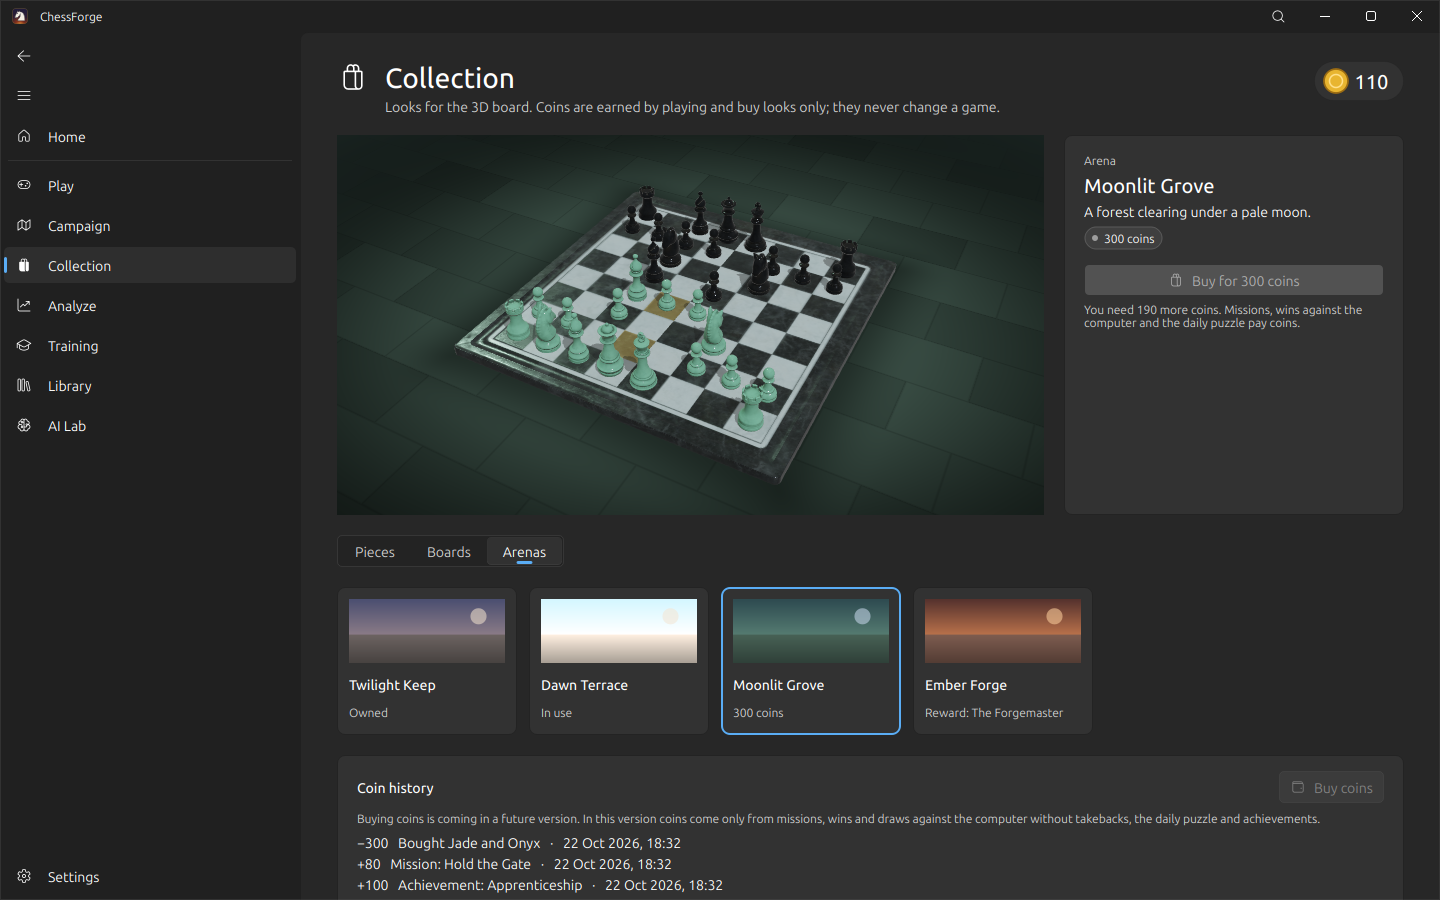
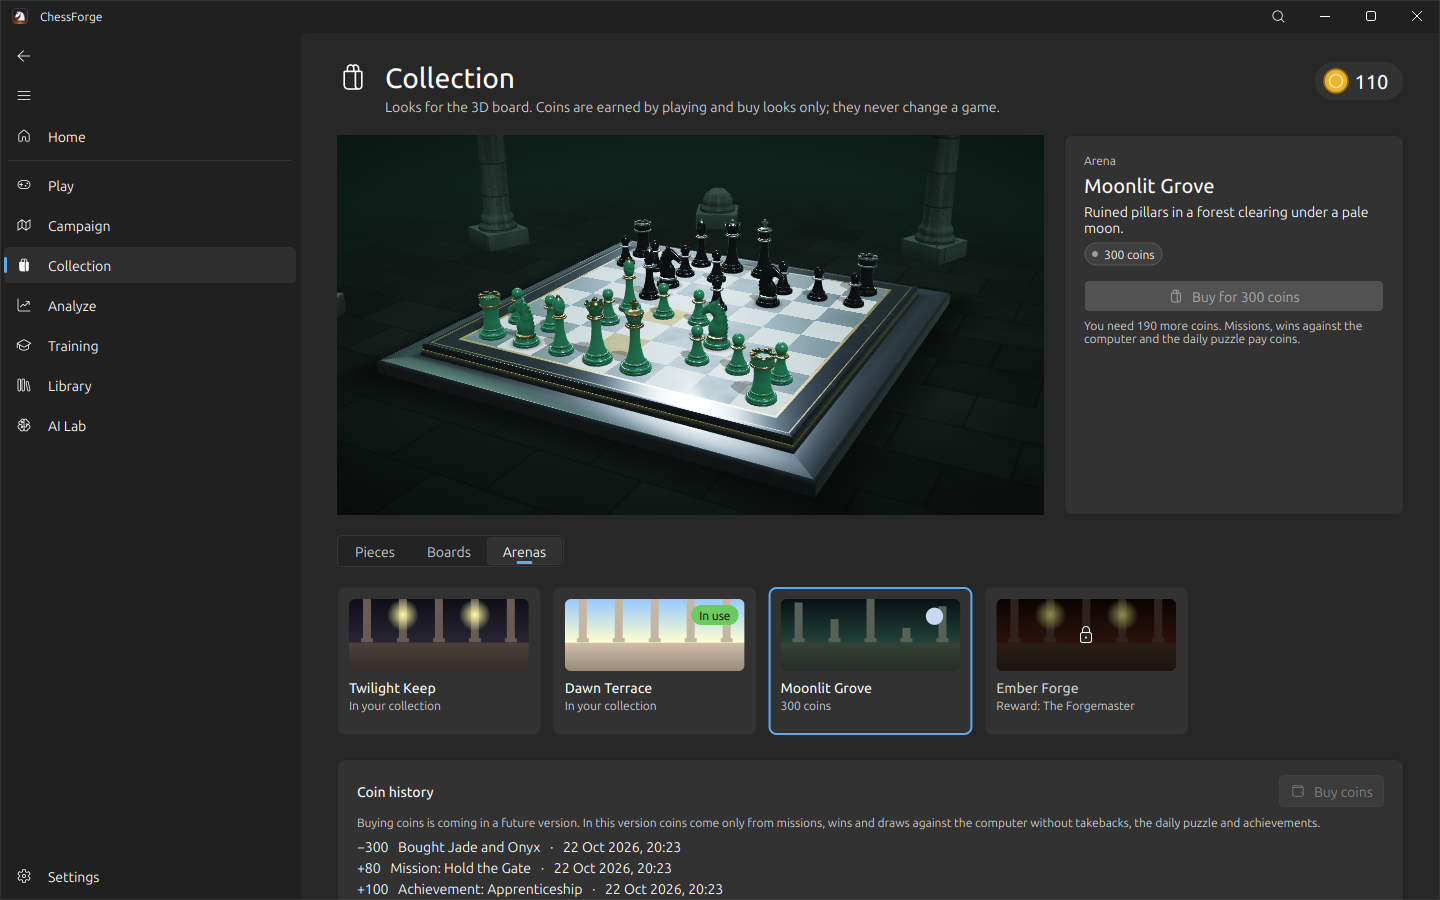
Show the redesigned 3D board: sculpted set, halls, close-ups and finishes
New studies of the 3D board from the app's renderer (the default view, both sides' pieces, close-ups, move highlights, a turned camera, the four arenas and five finishes), refreshed game screenshots, an availability note (no public download) and an updated feature overview.

diff --git a/README.md b/README.md
@@ -1,7 +1,7 @@
 # ChessForge
 
 **A 3D chess game and chess workstation for Windows and Linux.**
-- Play on a modelled board in an arena, or follow a twelve-mission campaign.
+- Play on a sculpted ivory-and-obsidian set in a torchlit royal hall, or follow a twelve-mission campaign.
 - Collect piece, board and arena looks with coins earned in play.
 - Analyse with Stockfish, train with puzzles and drills, keep a game library, and train your own neural network.
 
@@ -20,20 +20,20 @@ Built with [FluentQt](https://github.com/pntrungbk15/fluentqt-showcase) on PyQt5
 | At a glance | |
 |---|---|
 | **What** | An independent desktop application: a 3D chess game with a campaign and a cosmetic collection, plus analysis, training, a game database and a neural-network lab, all running locally. |
-| **3D** | A custom OpenGL 2.1 renderer: physically based shading, planar shadows, a procedural arena, and a camera you can orbit and zoom while picking stays exact. |
+| **3D** | A custom OpenGL 2.1 renderer and an original sculpted chess set (signed distance functions meshed and baked by a build script); physically based, fully procedural materials with no textures; planar and contact shadows; four halls; a camera you can orbit and zoom while picking stays exact. |
 | **Progression** | Twelve missions judged move by move; a coin ledger whose rows are keyed by the event they pay for, so nothing is paid twice; purchases in one transaction. Coins buy looks only, and there is no way to buy coins in this version. |
 | **Engine integration** | Stockfish over UCI in its own processes; live multi-line analysis; background game review with an evaluation graph, critical moments and accuracy. |
 | **AI Lab** | Datasets from your games or from Stockfish, a policy/value network trained with PyTorch in a separate process, MCTS self-play, checkpoint evaluation, and play against your own models. |
 | **Data** | A local SQLite library with background PGN import, search, filters, tags, collections and duplicate detection. |
-| **Packaging** | A standalone build compiled with Nuitka and verified by launching it; Stockfish is detected or downloaded, never bundled. |
+| **Packaging** | A standalone Windows build compiled with Nuitka and verified by launching it, packed into a per-user Inno Setup installer; Stockfish is detected or downloaded, never bundled. |
 
 ## Features
 
 | Area | What it does |
 |---|---|
-| **3D board** | On by default with hardware OpenGL: a CC0 chess set in an arena; drag outside the squares to turn it, wheel to zoom, C to reset; the camera never moves by itself. |
+| **3D board** | On by default with hardware OpenGL: glazed ivory with champagne gold against polished obsidian with antique gold, a veined marble board with a brass inlay on a dais, in a hall of pillars, arches, moonlit windows and torches. Drag outside the squares to turn it, wheel to zoom, C to reset; the camera never moves by itself. A detail setting drops the hall on older graphics. |
 | **Campaign** | Three chapters against named opponents, from a built-in sparring engine to Stockfish level 11; goals are win, do not lose, or hold out for a number of moves; rewards are paid once. |
-| **Collection** | Five piece finishes, five boards and four arenas, previewed live; coins come from missions, wins and draws against the computer, the daily puzzle and achievements. |
+| **Collection** | Five piece finishes, five boards and four arenas, previewed live on the 3D board and listed in a FluentQt Pro `CatalogView`; coins come from missions, wins and draws against the computer, the daily puzzle and achievements. |
 | **Play** | Against Stockfish (levels 0–20), the built-in sparring partner (no download), a friend, a model trained in the AI Lab, or engine against engine; clocks with increment, any FEN start, draws, takebacks, rematch. |
 | **Analysis** | Live multi-line analysis with the best move drawn as an arrow; **Review game** grades every move in the background and marks the critical moments. |
 | **Training** | 2,475 puzzles by theme and rating band, SM-2 spaced repetition of missed puzzles, 3,815 named opening lines to drill, endgame drills against Stockfish. |
@@ -43,6 +43,27 @@ Built with [FluentQt](https://github.com/pntrungbk15/fluentqt-showcase) on PyQt5
 | **Commands** | Ctrl+K opens a command palette for every frequent action. |
 | **Accessibility** | Full keyboard play, reduced motion, a high-contrast board, text scaling, light/dark/system theme. |
 
+## The 3D board
+
+![The sculpted set on a marble board with a brass inlay, on a dais in a torchlit hall](assets/chess-3d-arena.jpg)
+
+| | |
+|---|---|
+| ![The board at the default camera, mid-opening](assets/chess-3d-board.jpg) | ![White's pieces in front, Black's behind](assets/chess-3d-pieces-white.jpg) |
+| The default view in play: a 40° camera with the whole board, the frame and the hall beyond it. | All six piece types from White's side: the knight in profile, the bishop's cut, the queen's crown of pearls, the king's cross. |
+| ![The same pieces from Black's side](assets/chess-3d-pieces-black.jpg) | ![A selected knight with its legal moves and the last move highlighted](assets/chess-3d-highlights.jpg) |
+| The same line-up from Black's side: obsidian with antique gold. | A selected knight's legal moves, the last move and the selection stay legible on light and dark squares. |
+| ![The board after the player turned the camera](assets/chess-3d-rotated.jpg) | ![The Collection page previewing an arena on the live 3D board](assets/chess-collection.png) |
+| The camera after the player turned it: it stays wherever it is put. | The Collection previews a look on the live 3D board before it is bought. |
+
+![Close-ups of the knight, king, queen, bishop and rook in ivory and obsidian](assets/chess-3d-closeups.jpg)
+
+![The four arenas: Twilight Keep, Dawn Terrace, Moonlit Grove and Ember Forge](assets/chess-3d-arenas.jpg)
+
+![The five piece finishes: Ivory and Obsidian, Gilded Court, Jade and Onyx, Moonstone and Ember, Frost and Shadow](assets/chess-3d-finishes.jpg)
+
+Rendered by the application's own renderer at the shader quality it uses on a GPU.
+
 ## Screens
 
 | | |
@@ -50,7 +71,7 @@ Built with [FluentQt](https://github.com/pntrungbk15/fluentqt-showcase) on PyQt5
 | ![Home](assets/chess-home.png) | ![Campaign](assets/chess-campaign.png) |
 | **Home:** the next campaign mission first, then quick actions, recent games and training progress. | **Campaign:** chapters, the mission briefing and achievements. |
 | ![Collection](assets/chess-collection.png) | ![Play](assets/chess-play.png) |
-| **Collection:** a look previewed on the live 3D board; coin history; buying coins is not offered. | **Play:** clocks, move list, captured material and an evaluation bar (2D board). |
+| **Collection:** a look previewed on the live 3D board, the looks in a catalog grid, coin history; buying coins is not offered. | **Play:** clocks, move list, captured material and an evaluation bar (2D board). |
 | ![Analysis](assets/chess-analysis.png) | ![Training](assets/chess-training.png) |
 | **Analysis:** live Stockfish lines and a reviewed game. | **Training:** puzzles by theme and rating with hints and progress. |
 | ![Library](assets/chess-library.png) | ![AI Lab](assets/chess-lab.png) |
@@ -68,7 +89,7 @@ game/         game model (PGN tree + cursor), clocks, play controller
 engine/       UCI protocol, one process per engine, detection and probing, a built-in sparring engine
 progression/  campaign missions and their judge, coin ledger, collection, achievements
 analysis/     background game review
-rendering/    board view and camera, 2D renderer, OpenGL 3D renderer and arena, themes and finishes
+rendering/    board view and camera, 2D renderer, OpenGL 3D renderer, the sculpted set, board and halls, finishes
 storage/      SQLite schema and repositories (games, collections, runs, training)
 training/     puzzle, opening and endgame catalogues, drills, rating, SM-2
 ai/           training process and controller, network, MCTS, datasets
@@ -84,11 +105,16 @@ Measured with the project's benchmark scripts (medians):
 
 | Measurement | Result |
 |---|---|
-| Cold start to first paint | 183 ms |
 | Import 10,000 PGN games | 295 ms, worst GUI stall 20 ms |
 | Library page at 100,000 games | 1.1 ms (text search 23 ms) |
 | Stockfish dataset, depth 8, 4 engine processes through the job queue | 1,119 positions/s, worst GUI stall 17 ms |
-| 3D drag on Intel Iris Xe, with the arena | 16.7 ms per frame (vsync), 1.25 ms CPU |
+| 3D drag on Intel Iris Xe | 16.7 ms per frame (vsync, the display rate) |
+
+## Availability
+
+There is no public download at this stage. The Windows build (a standalone Nuitka folder packed into a per-user Inno
+Setup installer, `ChessForge-<version>-Setup.exe`) is produced and tested privately; it needs Windows 10 or 11 (64-bit)
+and, for the 3D board, hardware OpenGL 2.1 such as Intel Iris Xe or any recent GPU.
 
 ## Not in this version
 
